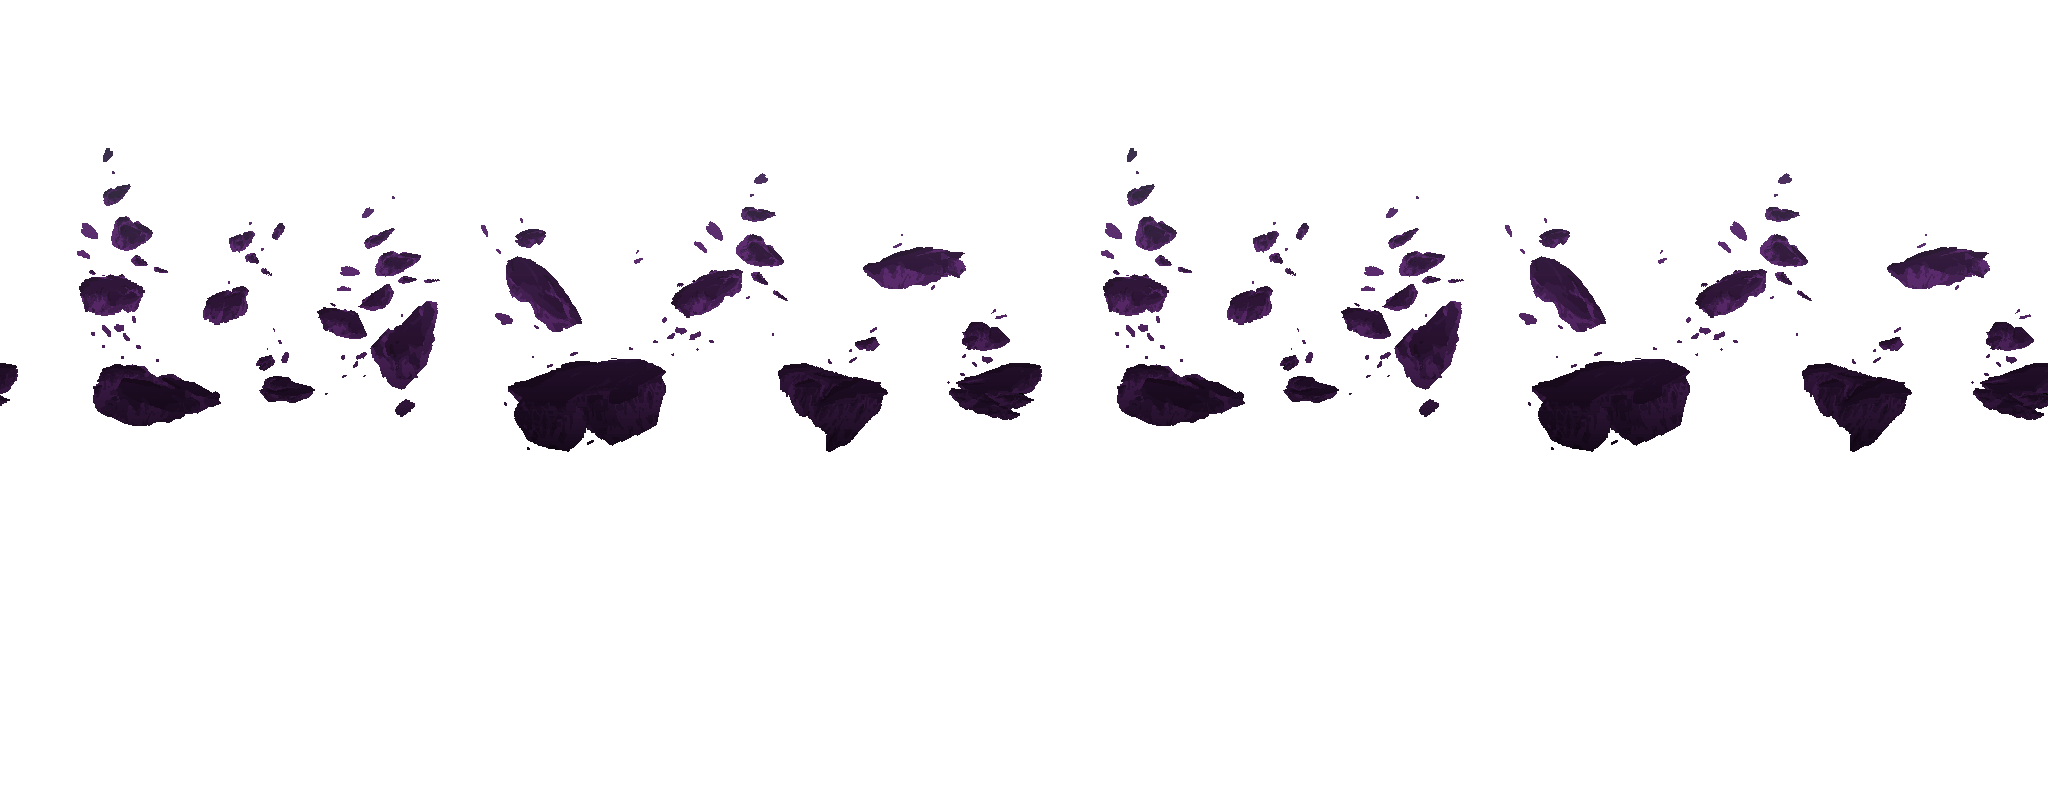
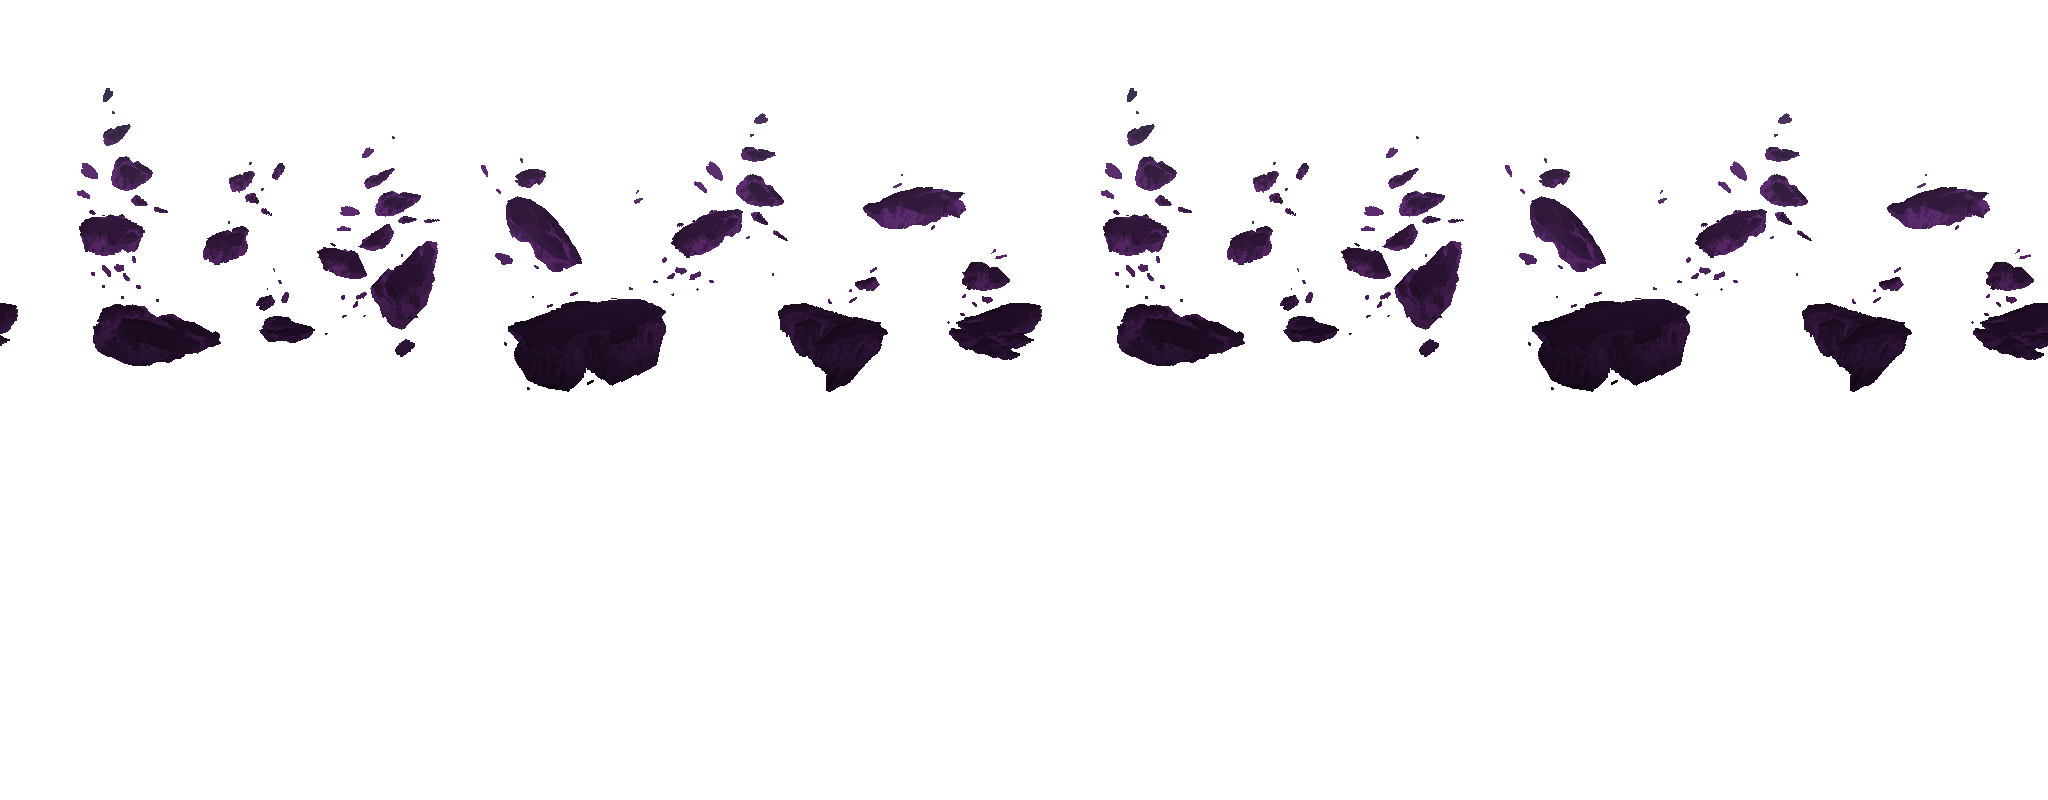
dark matter bg/sky working for the most part

Changed region(s): [[0.0, 0.1562, 1.0, 0.5625], [0.9062, 0.2188, 0.9688, 0.2812], [0.4062, 0.2188, 0.4688, 0.2812]]

diff --git a/Common/DarkMatterWorld.cs b/Common/DarkMatterWorld.cs
@@ -2,10 +2,6 @@ using Avalon.Common.Players;
 using Avalon.Systems;
 using Microsoft.Xna.Framework;
 using System;
-using System.Collections.Generic;
-using System.Linq;
-using System.Text;
-using System.Threading.Tasks;
 using Terraria;
 using Terraria.ModLoader;
 
@@ -15,7 +11,7 @@ namespace Avalon.Common
     {
         public override void ModifySunLightColor(ref Color tileColor, ref Color backgroundColor)
         {
-            float DarkMatterStrength = Main.LocalPlayer.GetModPlayer<AvalonPlayer>().DarkMatterMonolith && MonolithTilesInRange(Main.LocalPlayer) ? ModContent.GetInstance<BiomeTileCounts>().DarkMonolithTiles / 1 : 0;
+            float DarkMatterStrength = 0; // Main.LocalPlayer.GetModPlayer<AvalonPlayer>().DarkMatterMonolith && MonolithTilesInRange(Main.LocalPlayer) ? ModContent.GetInstance<BiomeTileCounts>().DarkMonolithTiles / 1 : 0;
             if (MonolithTilesInRange(Main.LocalPlayer))
             {
                 DarkMatterStrength = 1f;
@@ -33,9 +29,17 @@ namespace Avalon.Common
             backgroundColor.R = (byte)sunR;
             backgroundColor.G = (byte)sunG;
             backgroundColor.B = (byte)sunB;
-            tileColor.R -= (byte)(126f * DarkMatterStrength / 2.2f * (backgroundColor.R / 255f) * 1.6f);
-            tileColor.G -= (byte)(71f * DarkMatterStrength / 2.4f * (backgroundColor.G / 255f) * 1.5f);
-            tileColor.B -= (byte)(107f * DarkMatterStrength / 1.8f * (backgroundColor.B / 255f) * 1.8f);
+
+            tileColor.R -= (byte)(126f * DarkMatterStrength / 1.5f * (backgroundColor.R / 255f) * 1.5f);
+            tileColor.G -= (byte)(71f * DarkMatterStrength / 1.5f * (backgroundColor.G / 255f) * 1.5f);
+            tileColor.B -= (byte)(107f * DarkMatterStrength / 1.5f * (backgroundColor.B / 255f) * 1.5f);
+        }
+        public override void ModifyLightingBrightness(ref float scale)
+        {
+            if (Main.LocalPlayer.GetModPlayer<AvalonPlayer>().DarkMatterMonolith)
+            {
+                scale = 0.8f;
+            }
         }
         public static bool MonolithTilesInRange(Player p)
         {
@@ -46,7 +50,7 @@ namespace Avalon.Common
                 for (int j = point.Y - 200; j < point.Y + 200; j++)
                 {
                     Tile t = Framing.GetTileSafely(i, j);
-                    if (t.TileType == ModContent.TileType<Tiles.DarkMatter.DarkMatterMonolith>())
+                    if (t.TileType == ModContent.TileType<Tiles.DarkMatter.DarkMatterMonolith>() && t.TileFrameX >= 36)
                     {
                         return true;
                     }

diff --git a/Hooks/DarkMatterRemoveSun.cs b/Hooks/DarkMatterRemoveSun.cs
@@ -3,29 +3,48 @@ using Avalon.Common.Players;
 using Microsoft.Xna.Framework;
 using Terraria;
 using Terraria.ModLoader;
+using static Terraria.Main;
 
 namespace Avalon.Hooks;
 
 [Autoload(Side = ModSide.Client)]
 public class DarkMatterRemoveSun : ModHook
 {
-    protected override void Apply() => On_Main.DrawSunAndMoon += OnDrawSunAndMoon;
+    protected override void Apply()
+    {
+        On_Main.DrawSunAndMoon += OnDrawSunAndMoon;
+        On_Main.SetBackColor += OnSetBackColor;
+    }
 
     private static void OnDrawSunAndMoon(On_Main.orig_DrawSunAndMoon orig, Main self,
                                          Main.SceneArea sceneArea, Color moonColor, Color sunColor,
                                          float tempMushroomInfluence)
     {
-        if (Main.gameMenu)
+        if (gameMenu)
         {
             orig(self, sceneArea, moonColor, sunColor, tempMushroomInfluence);
             return;
         }
-
-        if (Main.LocalPlayer.GetModPlayer<AvalonBiomePlayer>().ZoneDarkMatter)
+        if (LocalPlayer.GetModPlayer<AvalonBiomePlayer>().ZoneDarkMatter)
         {
             return;
         }
-
         orig(self, sceneArea, moonColor, sunColor, tempMushroomInfluence);
+    }
+
+    private static void OnSetBackColor(On_Main.orig_SetBackColor orig, InfoToSetBackColor info, out Color sunColor, out Color moonColor)
+    {
+        orig(info, out sunColor, out moonColor);
+        if (!gameMenu)
+        {
+            if (LocalPlayer.GetModPlayer<AvalonBiomePlayer>().ZoneDarkMatter && dayTime)
+            {
+                Color bgColorToSet = new Color(5, 5, 5);
+                sunColor = bgColorToSet;
+                moonColor = bgColorToSet;
+                ColorOfTheSkies = bgColorToSet;
+            }
+        }
+        
     }
 }

diff --git a/Tiles/DarkMatter/DarkMatterMonolith.cs b/Tiles/DarkMatter/DarkMatterMonolith.cs
@@ -3,6 +3,7 @@ using Avalon.Dusts;
 using Avalon.Players;
 using Microsoft.Xna.Framework;
 using Microsoft.Xna.Framework.Graphics;
+using System.Collections.Generic;
 using Terraria;
 using Terraria.Audio;
 using Terraria.DataStructures;
@@ -41,6 +42,11 @@ public class DarkMatterMonolith : ModTile
             Main.LocalPlayer.GetModPlayer<AvalonPlayer>().DarkMatterMonolith = true;
             Main.LocalPlayer.GetModPlayer<AvalonPlayer>().DarkMatterTimeOut = 2;
         }
+    }
+
+    public override IEnumerable<Item> GetItemDrops(int i, int j)
+    {
+        yield return new Item(ModContent.ItemType<Items.Placeable.Tile.DarkMatterMonolith>());
     }
 
     public override void AnimateTile(ref int frame, ref int frameCounter)

diff --git a/Effects/DarkMatterSky.cs b/Effects/DarkMatterSky.cs
@@ -245,7 +245,7 @@ public class DarkMatterSky : CustomSky
 
     public override Color OnTileColor(Color inColor)
     {
-        return inColor; // new Color(126, 71, 107) * 0.55f;
+        return new Color(126, 71, 107) * 0.55f;
     }
 
 }
